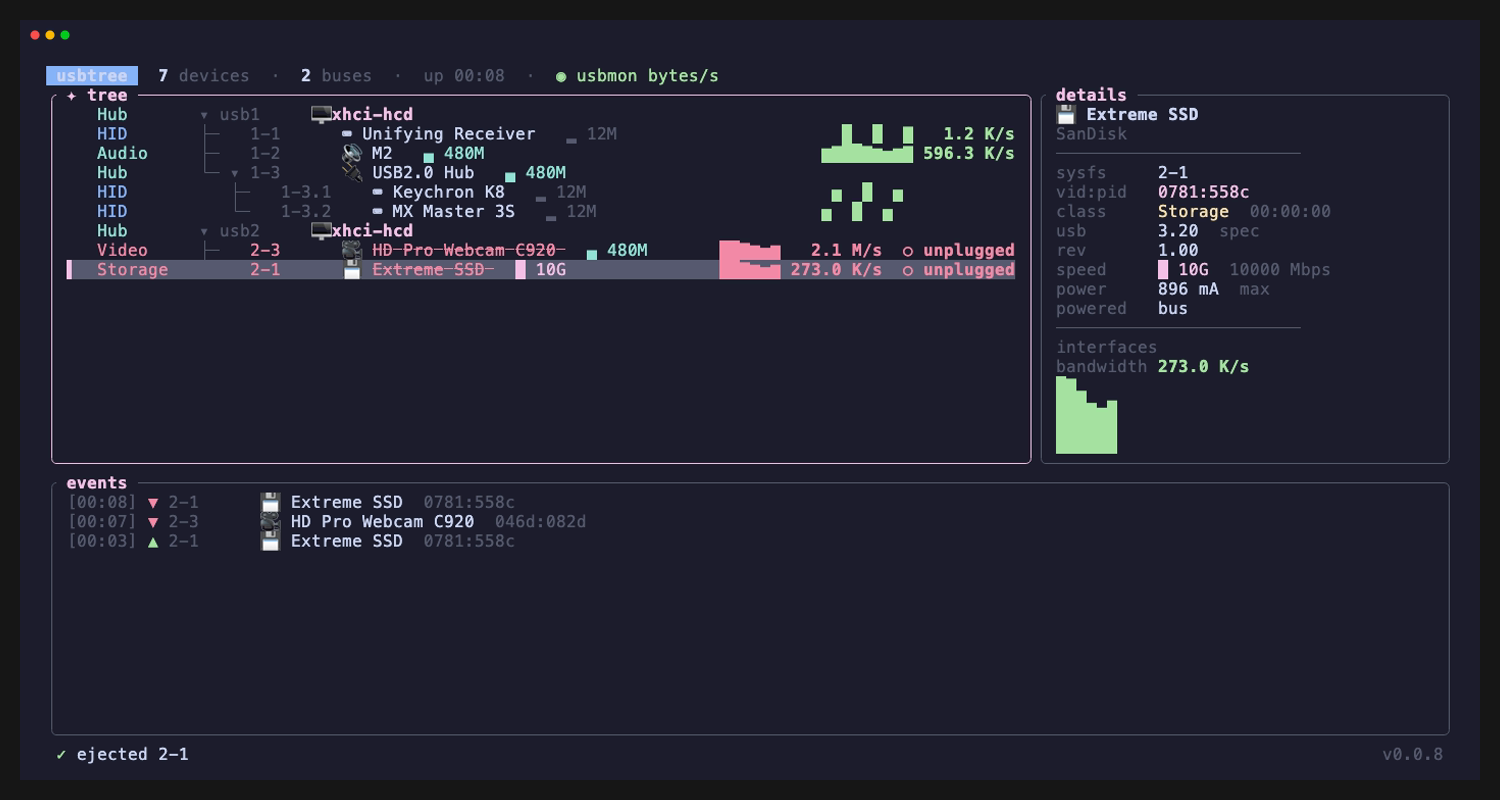
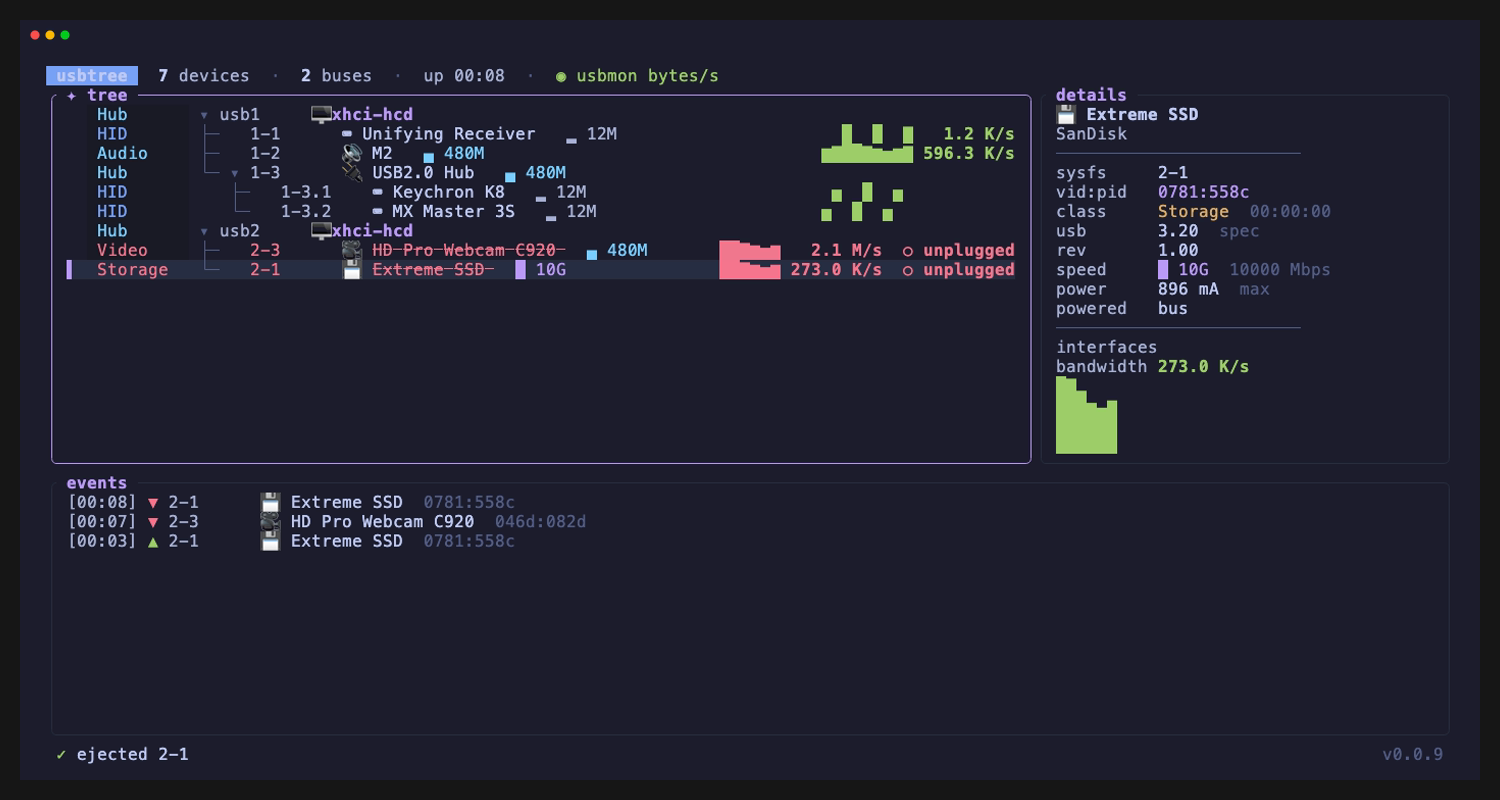
feat(ui): set tokyo night as the default theme

diff --git a/src/main.rs b/src/main.rs
@@ -10,7 +10,7 @@ use app::App;
 use ratatui::crossterm::event::{DisableMouseCapture, EnableMouseCapture};
 
 pub static ICON_THEME: std::sync::atomic::AtomicU8 = std::sync::atomic::AtomicU8::new(0);
-pub static COLOR_THEME: std::sync::atomic::AtomicU8 = std::sync::atomic::AtomicU8::new(0);
+pub static COLOR_THEME: std::sync::atomic::AtomicU8 = std::sync::atomic::AtomicU8::new(6);
 
 fn main() -> std::io::Result<()> {
     if std::env::args().any(|a| a == "--nerd-font" || a == "--nerd-fonts") {